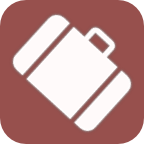
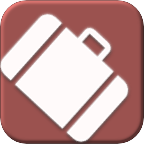
2.0.3.0-Up

Changed region(s): [[0.0, 0.0, 1.0, 1.0]]

diff --git a/Source/Classes/PadRootVC.m b/Source/Classes/PadRootVC.m
@@ -85,7 +85,7 @@
 	//------------------------------------------アイコン
 	imgBag_ = [[UIImageView alloc] initWithFrame:BAG_FRAME];
 	imgBag_.contentMode = UIViewContentModeBottomLeft;
-	[imgBag_ setImage:[UIImage imageNamed:@"Icon72"]];
+	[imgBag_ setImage:[UIImage imageNamed:@"Icon72bag"]];
 	//imgBag_.center = CGPointMake(self.view.bounds.size.width/2+60, 150);
 	[self.view addSubview:imgBag_]; 
 }
